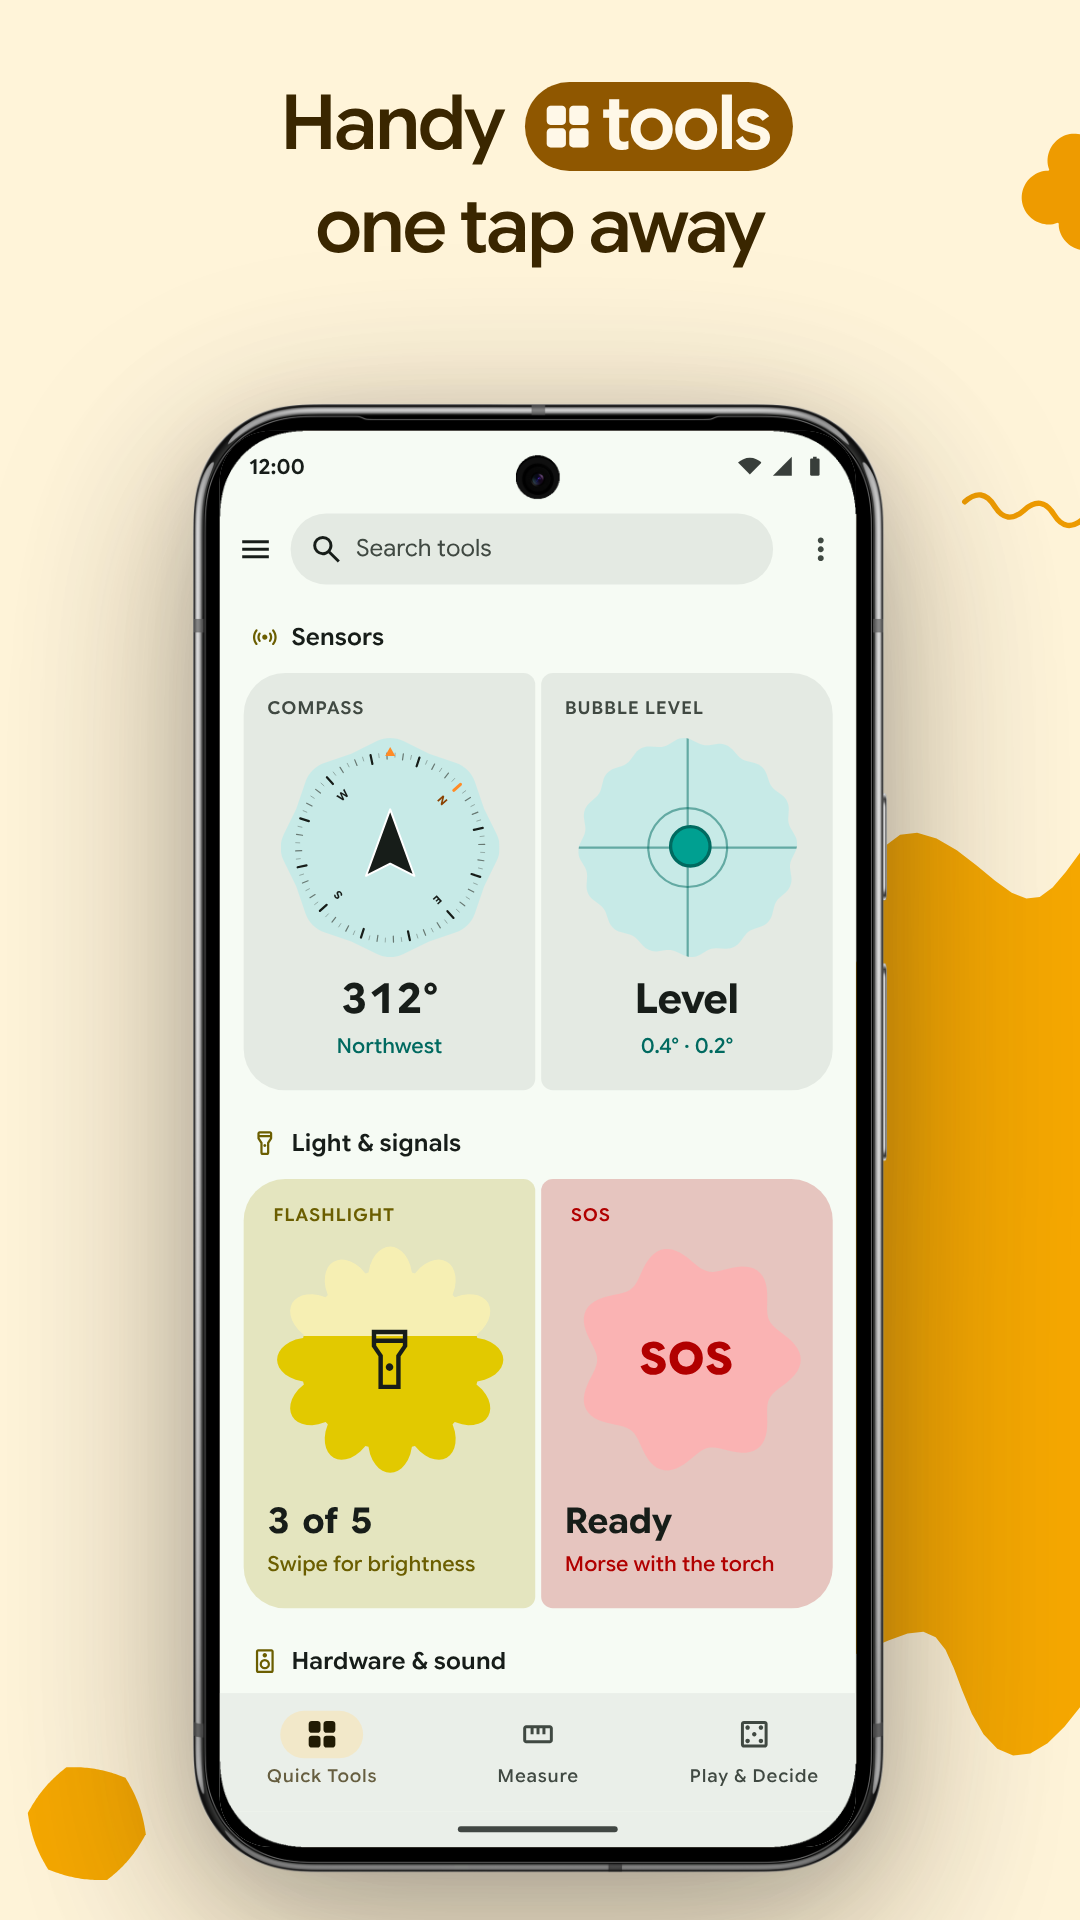
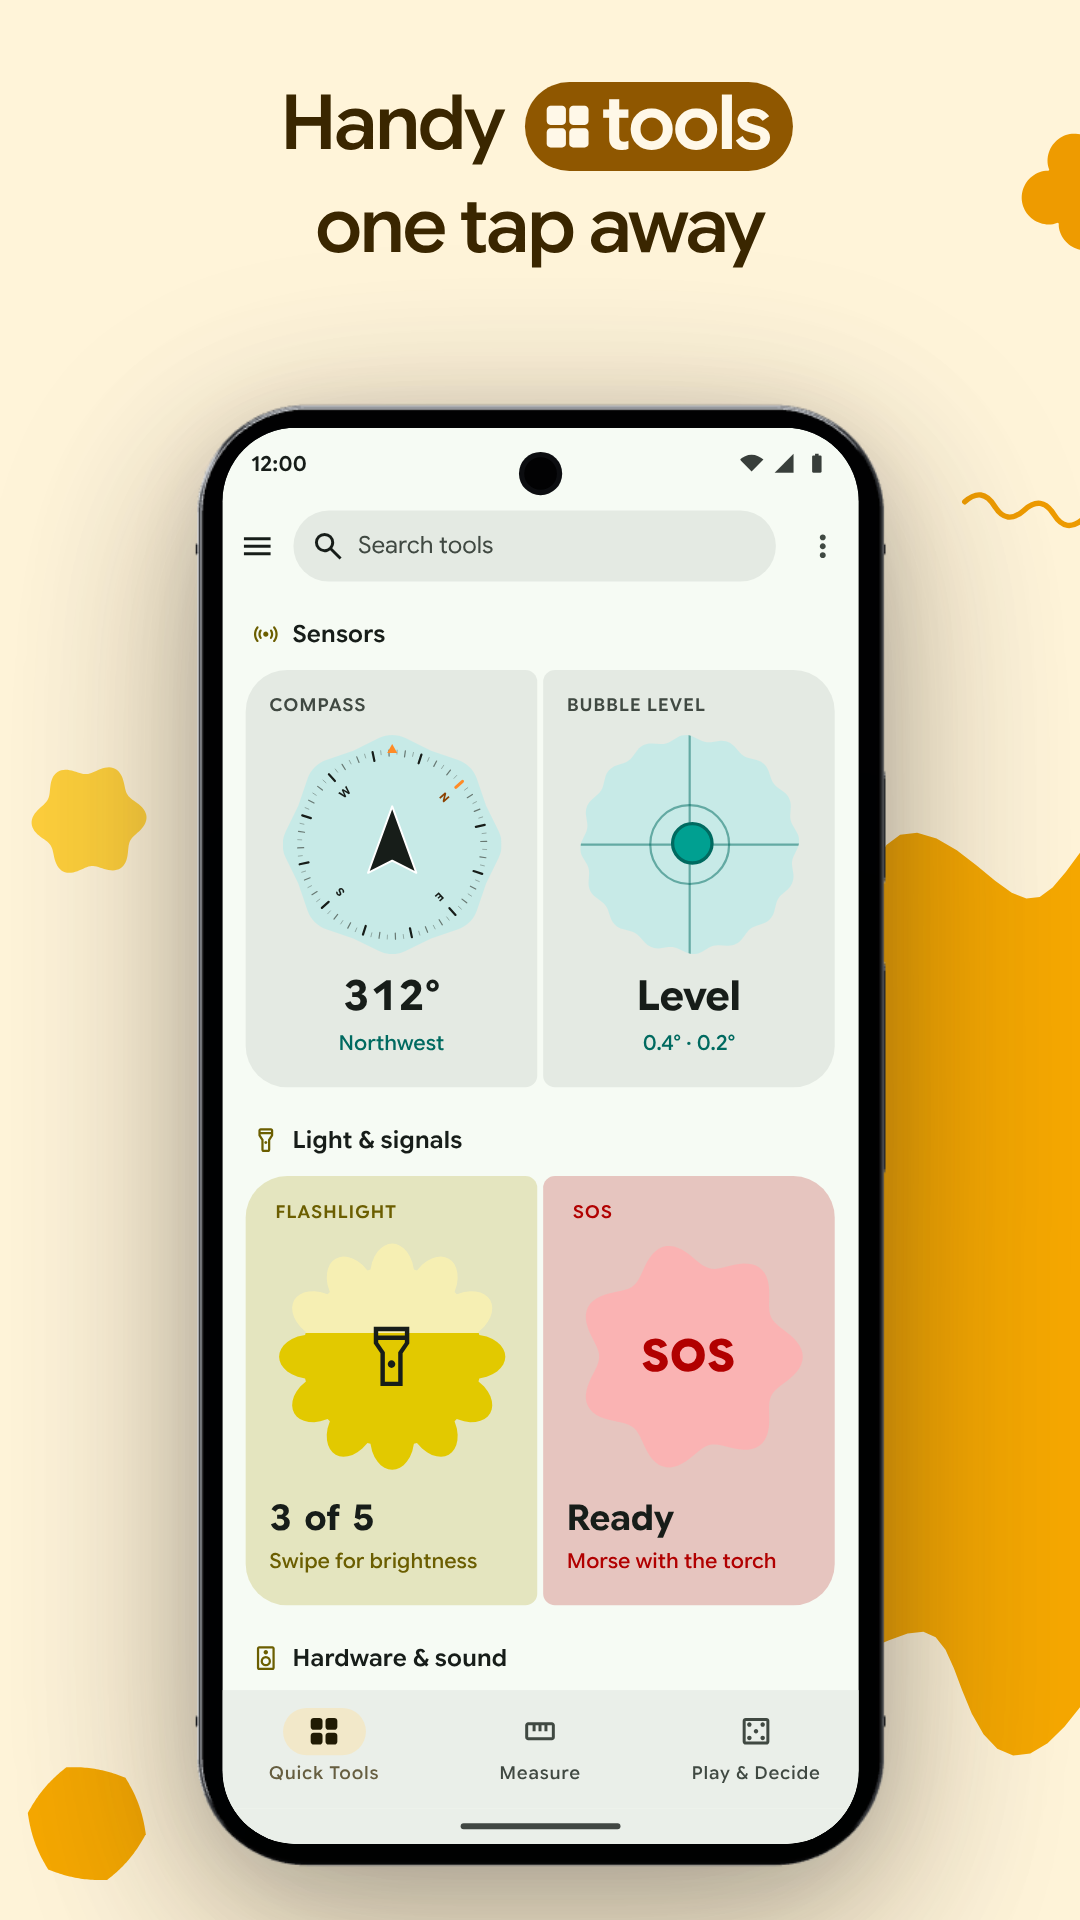
Marketing UI on Material-Next 0.2.0: the 3D Pixel everywhere
The UI kit uses Material-Next 0.2.0, so every framed phone (gallery,
prototype page, captures, the store listing) is Material-Next's own 3D
Pixel 9 Pro XL. The BlenderKit model, its Draco decoder, its sync step
and src/kit/pixel-3d.js are removed; three.js comes with Material-Next.
The listing's phone frame is 465.23 x 988.76, and the phone screenshots
are re-rendered. Skills synced from android-skills.

Claude-Session: https://claude.ai/code/session_01EEYGaFXbmvKJrEAo9apjWh

diff --git a/marketing/skills/built-in/play-store-media/template/src/store.css b/marketing/skills/built-in/play-store-media/template/src/store.css
@@ -20,10 +20,10 @@ html[data-export] #store { padding: 0; gap: 0; display: block; }
 .caption .line--pill { margin-top: 10px; }
 .caption .line--pill b { display: inline-block; font-weight: 700; padding: 0 .22em .08em; border-radius: 999px; background: var(--pill); color: var(--on-pill); }
 
-/* The kit's Pixel 9 Pro XL frame (469 x 992 CSS px), scaled; it runs off the bottom edge. */
-.phone { position: absolute; left: 50%; top: 404px; width: 469px; height: 992px; transform: translateX(-50%) scale(1.48); transform-origin: 50% 0; z-index: 1;
+/* Material Next's 3D Pixel 9 Pro XL frame (465.23 x 988.76 CSS px), scaled; it runs off the bottom edge. */
+.phone { position: absolute; left: 50%; top: 404px; width: 465.23px; height: 988.76px; transform: translateX(-50%) scale(1.48); transform-origin: 50% 0; z-index: 1;
   filter: drop-shadow(0 40px 60px rgba(0, 33, 17, .22)); }
-.phone > * { width: 469px; height: 992px; }
+.phone > * { width: 465.23px; height: 988.76px; }
 
 /* Feature graphic: 1024 x 500. Text centred (the part Play never crops), app screens at the sides, no device frame. */
 .feature { position: relative; width: 1024px; height: 500px; overflow: hidden; background: var(--md-sys-color-primary); color: var(--md-sys-color-on-primary); }

diff --git a/marketing/skills/built-in/play-store-media/template/src/store.js b/marketing/skills/built-in/play-store-media/template/src/store.js
@@ -65,8 +65,8 @@ if (!only || only === 'icon') {
 // The phone screenshots are cut from one panorama (8 x 1080 px wide): one ground, and shapes placed across the seams,
 // so the images read as one continuous strip when Play shows them side by side.
 const WIDTH = 1080;
-// Where the framed phone sits in each screenshot (store.css .phone: 469 x 992 at scale 1.48, centred, from y 404).
-const PHONE = { x0: 540 - (469 * 1.48) / 2, x1: 540 + (469 * 1.48) / 2, y0: 404 };
+// Where the framed phone sits in each screenshot (store.css .phone: 465.23 x 988.76 at scale 1.48, centred, from y 404).
+const PHONE = { x0: 540 - (465.23 * 1.48) / 2, x1: 540 + (465.23 * 1.48) / 2, y0: 404 };
 const SEAMS = [
   // [shape, size, y, colour token, rotation]: shapes centred on the seams between two screenshots, a large one low and a
   // small one high, alternating, so every pair of neighbours shares a shape.

diff --git a/marketing/creative/store/google-play/listings/default/source/src/Phone.tsx b/marketing/creative/store/google-play/listings/default/source/src/Phone.tsx
@@ -11,8 +11,8 @@ import { FONT, GROUND, INK, ON_PILL, PILL, SHAPE_COLORS } from "./theme";
 // one picture.
 export const WIDTH = 1080;
 export const HEIGHT = 1920;
-// The kit's Pixel 9 Pro XL frame, 469 x 992 CSS px, scaled and centred, running off the bottom edge.
-const FRAME = { w: 469, h: 992, scale: 1.48, top: 404 };
+// Material-Next's 3D Pixel 9 Pro XL frame, 465.23 x 988.76 CSS px, scaled and centred, running off the bottom edge.
+const FRAME = { w: 465.23, h: 988.76, scale: 1.48, top: 404 };
 const PHONE = { x0: WIDTH / 2 - (FRAME.w * FRAME.scale) / 2, x1: WIDTH / 2 + (FRAME.w * FRAME.scale) / 2, y0: FRAME.top };
 
 // The caption's box in every image: centred in the top band. Nothing else is drawn in it, and the caption must fit

diff --git a/marketing/skills/built-in/marketing-ui/SKILL.md b/marketing/skills/built-in/marketing-ui/SKILL.md
@@ -32,6 +32,11 @@ The hub itself (gallery, prototype page, preview settings, device frames, captur
 on npm). The repository writes only what is the app's: its theme, its screens and their state controls. Do not build a
 gallery, a prototype page or device frames by hand.
 
+What is personal to the author stays in the app, never in Material Next: a hub that shows `<mnw-product-launcher>`
+passes its own `catalog` (its products, admin consoles and links, built with `createLauncherCatalog()`, spreading
+`DEFAULT_LAUNCHER_ITEMS` to keep the public consoles), and a page that wants the Google mark on the phone's back passes
+it as the frame's `logo`. The library's defaults name no one's products and carry no logo.
+
 ```bash
 mkdir -p marketing/ui && cd marketing/ui
 npm init -y
@@ -157,7 +162,7 @@ Rules:
 - **Edge to edge.** Status bar 24 dp and gesture bar over the content, as Android draws them.
 - **Every screen renders from state.** No timers or random values inside a screen; videos set the state per frame.
 - **Large screens come from the Android code, not from guesses.** Tablets, foldables and desktop windows take the app's own adaptive rules, so port them, constant for constant, into one module (`kit/layout.js`) with a comment naming each source file: the window size breakpoints and navigation mode (bottom bar, rail, expanded rail, permanent drawer; App Toolkit apps: `ShellLayoutPolicy` in `ShellLayout.kt`, widths in `NavigationSurfaces.kt`), list and detail panes (`ListDetailScene.kt`: list fraction, separator), and the feed grid (the app's `listingLayout()`-style function: minimum cell width, column cap, when a banner stacks). Screens read the layout from a `window` in their state (`{ width, height, system }`, with presets such as `phone`, `fold` and `desktop`); `mount()`, the host and the capture script pass it. Also port how the wide shell is painted, not only where things go (for App Toolkit: the navigation and app bar share surface-container, and a tab's content is a surface card with a 24 dp top-start corner). When the app's library is a dependency, read its source at the exact version the app uses (clone the library at that tag, or disassemble the cached AAR with `javap -c` for the constants) before writing CSS.
-- **Device frames per window.** The phone frame for phone windows; for a tablet window the Pixel 9 Pro Fold open (Material Next's `device-frames/pixel_9_pro_fold`, copied with `npx mnw-marketing-assets`; its `layout` stays in `assets/device-frames/pixel_9_pro_fold/default`: a 2204 x 2274 frame around a 2076 x 2152 display at 62, 62, which is 852 x 883 dp at 2.4375). Size the frame so its display is exactly the window in CSS px, measure the display's corner radius from `mask.webp`, and keep the status icons clear of the camera cutout. For a desktop window, Google's device art for the Pixelbook Go (from the Android Developers Device Art Generator, `device-art-resources/pixelbook_go/land_back.png`, `land_shadow.png`, `land_fore.png`): find the screen as the transparent rectangle in `land_back.png` (1826 x 1079 px at 181, 159), and size the desktop window to it (1218 x 720 dp at 1.5). A desktop window has no system bars.
+- **Device frames per window.** For phone windows, Material Next's 3D Pixel 9 Pro XL (`<mnw-device-frame>`, 465.23 x 988.76 around the 430 x 957 window; `finish`, `yaw` and `pitch` pick its colour and angle); for a tablet window the Pixel 9 Pro Fold open (Material Next's `device-frames/pixel_9_pro_fold`, copied with `npx mnw-marketing-assets`; its `layout` stays in `assets/device-frames/pixel_9_pro_fold/default`: a 2204 x 2274 frame around a 2076 x 2152 display at 62, 62, which is 852 x 883 dp at 2.4375). Size the frame so its display is exactly the window in CSS px, measure the display's corner radius from `mask.webp`, and keep the status icons clear of the camera cutout. For a desktop window, Google's device art for the Pixelbook Go (from the Android Developers Device Art Generator, `device-art-resources/pixelbook_go/land_back.png`, `land_shadow.png`, `land_fore.png`): find the screen as the transparent rectangle in `land_back.png` (1826 x 1079 px at 181, 159), and size the desktop window to it (1218 x 720 dp at 1.5). A desktop window has no system bars.
 - **Check every window.** After a change, capture each screen at every window (`npm run capture -- <id> --window=fold`) and look: wide layouts break differently (a flex row without `min-width: 0` lets a pane overflow; content capped at 800 dp needs centring; long lists need an end).
 - **The served layout, not a guess at it.** Snapshot what the API serves for each screen, not only the items: for a composed feed, every group (featured, curated, topics, latest) with each article's style in its group and its ad positions. The kit draws that composition the way the app does, styles on every group the contract allows. When the kit, the app and an admin preview disagree, the contract decides; fix all three, then refresh the snapshot.
 - **One look for every mock.** Where a backend console previews the app (a feed preview, an ad stand-in), it draws the kit's components with the same structure and copy, so the console, the kit and the app agree. Change the kit first, then the console.
@@ -189,39 +194,37 @@ A screen that fails parity is not used in a campaign until it is fixed.
 
 ## 3D device
 
-The Pixel 9 Pro XL model lives in this repository at
-[`marketing/assets/device-models/pixel-9-pro-xl/`](../../../assets/device-models/pixel-9-pro-xl/README.md)
-(read its licence: it is never committed to a public repository). Use it where a flat frame cannot
-explain the moment: the phone arriving, turning, or the UI assembling into it. The screens stay HTML.
+The phone is our own Pixel 9 Pro XL, built in three.js from Google's published measurements and
+product photos, shipped by Material Next (0.2.0 and later). No third-party model or file is needed.
 
-The phone on a web page is this model, with the live screen on its display. First used on the
-Smart Cleaner presentation (`profile`, `#smart-cleaner-for-android`):
-
-1. **The live screen rides the 3D phone.** WebGL cannot paint a live page into a texture, so render
-   the model with three.js and add a `CSS3DRenderer` layer over the canvas, drawn with the same
-   camera, holding the real screen element (a frameless `ScreenHost`, 430 × 957). Place it on the
-   display plane just above the glass, inset by the bezel (about 2.4 mm) with the panel's corner
-   radius (about 8 mm) converted to pixels, and set `backface-visibility: hidden` so it disappears
-   when the phone turns away. It stays interactive: taps reach the screen. Draw the front camera over
-   it, since the layer covers the model's. Keep the model's `GP9XL_Screen` material as dark glass.
-2. **Work in millimetres.** CSS3D maps world units to CSS pixels: scale the model ×1000 so its
-   matrices stay well conditioned.
-3. **Load it lazily and only when it can play.** Import three.js and the model on demand, render on
-   demand (only when the pose or size changes), and skip it entirely with reduced motion or without
-   WebGL: the screens keep Material Next's flat frame, so a failure shows a complete page.
-4. **Draco.** The meshes are Draco-compressed. Ship three.js's decoder
-   (`three/examples/jsm/libs/draco/gltf/`) next to the model and give `DRACOLoader` that path.
-5. **Keep layers honest.** Fetch the bytes in the data layer and parse them with
-   `GLTFLoader.parseAsync()` in presentation code.
-6. **Own the lifecycle.** Keep the model and decoder outside any folder a sync script rebuilds, and
-   make the build fail when either is missing. Create every phone or none: if one fails, dispose the
-   ones already built. `dispose()` must free every geometry, material and texture in the model, plus
-   any material it swapped out, not only the renderer.
+1. **A phone with a live screen: `<mnw-device-frame>`.** It draws the phone and lays the real screen
+   over its display, head on or turned (`yaw`, `pitch`), in any finish (`obsidian`, `porcelain`,
+   `hazel`, `rose-quartz`). Head on, the screen is not transformed, so screenshots stay sharp. Every
+   frame on a page shares one WebGL context and one picture per pose; without WebGL it draws the
+   phone's outline in CSS, so a page is always complete. Await `frame.updateComplete` before a capture.
+2. **The back mark is the host's.** The model carries no logo. Pass `logo` (the URL of a
+   white-on-transparent mask) only on your own pages; the mark is drawn polished, in the back's colour.
+3. **A phone that turns on scroll: still the frame.** Set the frame's `yaw` and `pitch` from scroll
+   progress. While the pose keeps changing, the frame draws straight into a canvas once per animation
+   frame at one device pixel per CSS pixel, with no picture encoded, and swaps in the sharp picture
+   280 ms after it settles; off screen it draws nothing. Move one phone at a time; still phones cost
+   nothing after their first picture.
+4. **A scene of your own: the model itself.** For a film or a scene with more than a phone, import
+   `createPixelModel()`, `createStudio()` and `disposePixelModel()` from
+   `material-next-web-components/marketing/ui/pixel-model.js` and render it in your own three.js
+   scene, with the light `createStudio()` gives as the environment. The model is in millimetres,
+   display towards +Z. Lay the live screen over it with a `CSS3DRenderer` layer drawn with the same
+   camera: place a frameless `ScreenHost` (430 x 957) on the display plane, 0.1 mm above the glass,
+   inset 2.9 mm from the sides and 2.6 mm from the top and bottom, its corners 8.2 mm round
+   (`PIXEL_9_PRO_XL` has every number), with `backface-visibility: hidden`.
+5. **Performance in your own scene.** Import three.js on demand; render only when the pose or the
+   size changes, never in an idle loop; cap the pixel ratio at 2 and lower it to 1 while the phone
+   moves; stop while the canvas is off screen; keep one WebGL context per page. With reduced motion
+   or without WebGL show `<mnw-device-frame>` head on.
+6. **Own the lifecycle.** `disposePixelModel(phone)` frees every geometry, material and texture the
+   model made (the logo texture stays yours); dispose the renderer and the environment with it.
 7. **Motion.** Turn the phone in as it arrives (from edge-on through three quarters to the front,
    with a tilt that settles), driven by scroll progress so it reverses cleanly.
-
-App Toolkit's hub ships the renderer as `src/kit/pixel-3d.js` (`createPixel3D(canvas, { modelUrl })`, then
-`attachScreen(element)`).
 
 ### Scroll-built pages
 

diff --git a/marketing/ui/README.md b/marketing/ui/README.md
@@ -89,16 +89,11 @@ checks the web migration; Android screenshot parity remains a separate campaign 
 
 ## 3D device
 
-`src/kit/pixel-3d.js` renders the Pixel 9 Pro XL in 3D with three.js (`createPixel3D(canvas)`, then
-`pose(turn)` from 0, the back, to 1, the front). `attachScreen(element)` puts a live screen (a
-frameless `ScreenHost`, 430 × 957) on its display through a CSS3D layer drawn with the same camera,
-so the real UI turns with the phone and stays interactive.
-
-The model is a BlenderKit Royalty Free asset, usable in our work but not redistributable, so this
-public repository never contains it. `npm run assets` copies it from a sibling `android-skills`
-checkout (or `ANDROID_SKILLS=/path/to/android-skills`) into ignored `public/models/`, with three.js's
-Draco decoder in `public/draco/`. Without it, keep the flat frame. The `marketing-ui` skill covers the
-technique and the scroll-built presentation rules.
+The phone is Material-Next's own Pixel 9 Pro XL, drawn in 3D by `<mnw-device-frame>` (Material-Next
+0.2.0 and later): every framed screen in the gallery, the prototype page, captures and the store
+listing uses it, with the live screen on its display. It needs no model file. For a phone that turns
+on scroll, set the frame's `yaw` and `pitch`; for a scene of your own, use `createPixelModel()` from
+`material-next-web-components/marketing/ui/pixel-model.js`. The `marketing-ui` skill covers both.
 
 ## Translated Screens (`src/screens/`)
 

diff --git a/marketing/ui/CHANGELOG.md b/marketing/ui/CHANGELOG.md
@@ -4,12 +4,9 @@
 
 # Unreleased
 
-### Added
-
-- `src/kit/pixel-3d.js` renders the Pixel 9 Pro XL in 3D with three.js, with the live screen on its display (`attachScreen`, a CSS3D layer drawn with the same camera). The model stays in the private android-skills repository (BlenderKit Royalty Free, not redistributable); `npm run assets` copies it and the Draco decoder into ignored `public/`.
-
 ### Changed
 
+- Use Material-Next 0.2.0 from npm: every framed phone, in the gallery, the prototype page, captures and the store listing, is Material-Next's own 3D Pixel 9 Pro XL. The BlenderKit model, its Draco decoder and `src/kit/pixel-3d.js` are gone, and three.js comes with Material-Next.
 - Use Material Next `0.0.7` from npm for launcher Edit-mode and drag animations and compact drawer alignment.
 - Use Material Next 0.0.6 from npm. The gallery and each screen's prototype are one page (`mountMarketingHub`): opening a screen no longer reloads, and All screens or Back return where the gallery was scrolled. The gallery and the reference pages have no drawer, menu button or footer; the reference pages get a back button. The device fills the stage height, and the palette menu no longer makes the settings panel scroll.
 - Used Material Next 0.0.4 from npm for the simplified gallery, automatic detail frames, the shared copyright footer, a drawer whose footer stays put while its destinations scroll, and a launcher without App Toolkit.
